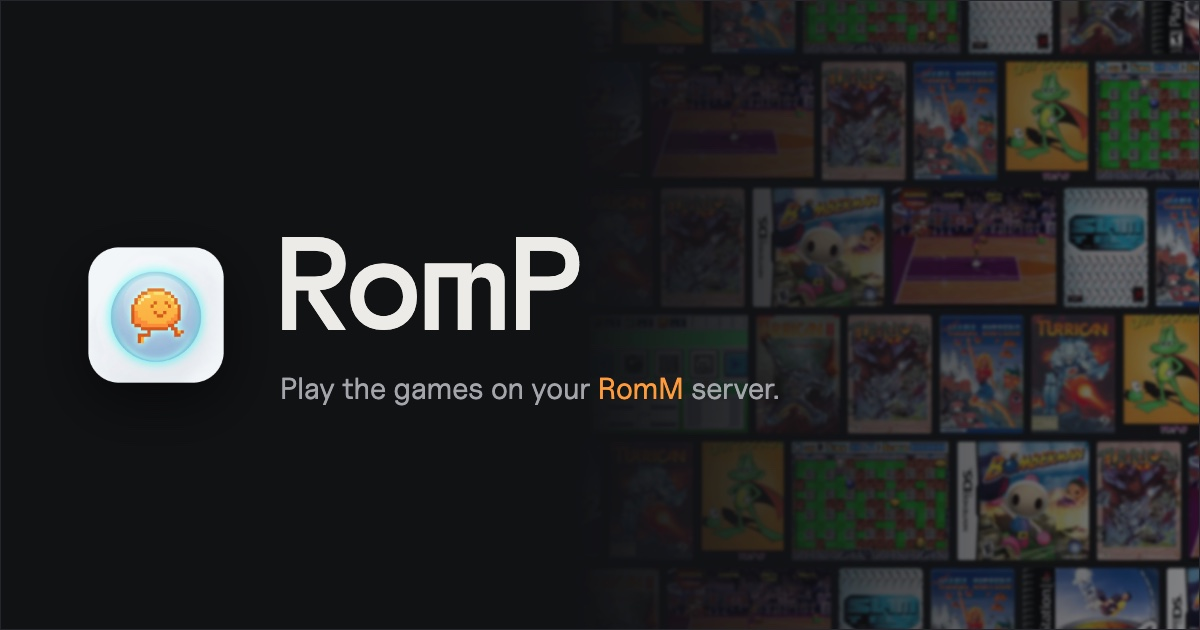
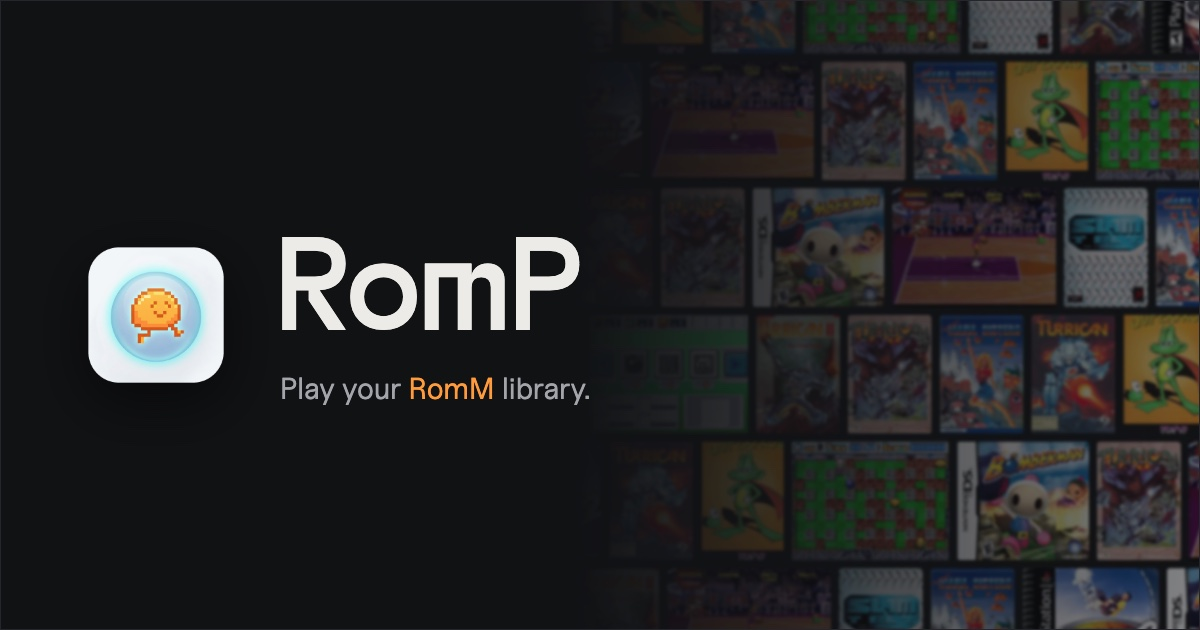
Change the tagline to Play your RomM library

Changed region(s): [[0.2775, 0.6032, 0.6475, 0.6333]]

diff --git a/index.html b/index.html
@@ -3,7 +3,7 @@
 <head>
 <meta charset="utf-8">
 <meta name="viewport" content="width=device-width, initial-scale=1">
-<title>RomP - Play the games on your RomM server</title>
+<title>RomP - Play your RomM library</title>
 <meta name="description" content="RomP is a free, open source app for Mac, Windows and Linux. It plays the games on your RomM server, with save sync, RetroAchievements and the screen look of each console.">
 <meta name="theme-color" content="#111215">
 <meta name="color-scheme" content="dark">
@@ -13,15 +13,15 @@
 
 <meta property="og:type" content="website">
 <meta property="og:site_name" content="RomP">
-<meta property="og:title" content="RomP - Play the games on your RomM server">
+<meta property="og:title" content="RomP - Play your RomM library">
 <meta property="og:description" content="A free app for Mac, Windows and Linux. Choose a game and press Play. RomP gets the emulator for you.">
 <meta property="og:url" content="https://rompemu.github.io/">
 <meta property="og:image" content="https://rompemu.github.io/img/og.jpg">
 <meta property="og:image:width" content="1200">
 <meta property="og:image:height" content="630">
-<meta property="og:image:alt" content="The RomP icon and name, with the tagline: Play the games on your RomM server.">
+<meta property="og:image:alt" content="The RomP icon and name, with the tagline: Play your RomM library.">
 <meta name="twitter:card" content="summary_large_image">
-<meta name="twitter:title" content="RomP - Play the games on your RomM server">
+<meta name="twitter:title" content="RomP - Play your RomM library">
 <meta name="twitter:description" content="A free app for Mac, Windows and Linux. Choose a game and press Play. RomP gets the emulator for you.">
 <meta name="twitter:image" content="https://rompemu.github.io/img/og.jpg">
 
@@ -30,7 +30,7 @@
   "@context": "https://schema.org",
   "@type": "SoftwareApplication",
   "name": "RomP",
-  "description": "Play the games on your RomM server.",
+  "description": "Play your RomM library.",
   "applicationCategory": "GameApplication",
   "operatingSystem": "macOS, Windows, Linux",
   "license": "https://www.gnu.org/licenses/gpl-3.0.html",
@@ -59,7 +59,7 @@
 <main>
   <section class="hero">
     <div class="hero-text">
-      <h1>Play the games on your RomM server.</h1>
+      <h1>Play your RomM library.</h1>
       <p>RomP is a free app for Mac, Windows and Linux. Choose a game and press Play. RomP gets the emulator for you.</p>
       <a class="button" href="https://github.com/RompEmu/RomP/releases/latest" data-os-label>Download</a>
       <p class="small" data-version>macOS, Windows, Linux</p>
